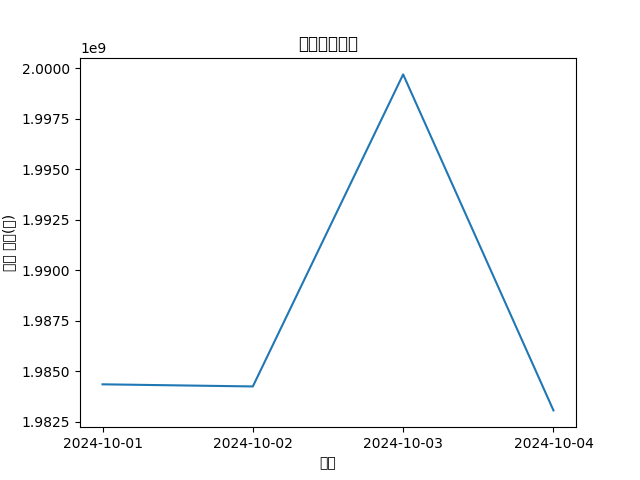
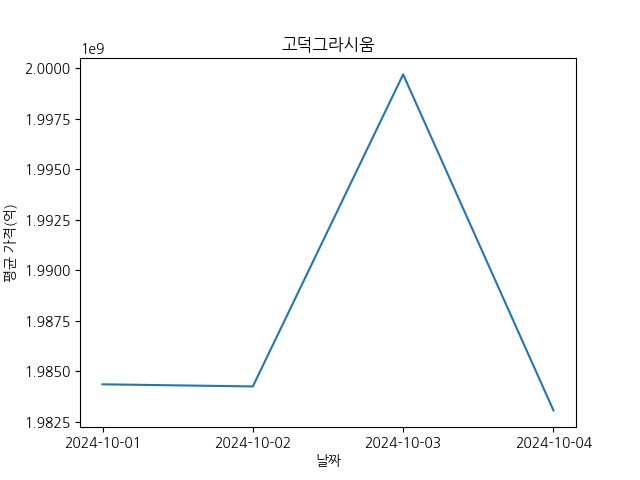
fix: matplotlib font error

diff --git a/src/analysis.py b/src/analysis.py
@@ -2,11 +2,21 @@ import pandas as pd
 from utils import PathConfig, FilterConfig, BatchManager, get_task_id
 from datetime import datetime, timedelta
 from matplotlib import pyplot as plt
+from matplotlib import font_manager as fm
+
 import os
 from loguru import logger
 
+# Font 찾기
+font_list = fm.findSystemFonts(fontpaths=None, fontext='ttf')
+fontpath = [f for f in font_list if "NanumGothic.ttf" in f][0]
+font_name = fm.FontProperties(fname=fontpath, size=10).get_name()
+fm.findfont("NanumGothic")
+plt.rc('font', family=font_name)
+
 
 def sales_trend(date_id):
+
     df = pd.read_parquet(PathConfig.sales)
     # Make Graph and save png files in PathConfig.graph
     for apt_name in FilterConfig.apt_code.keys():
